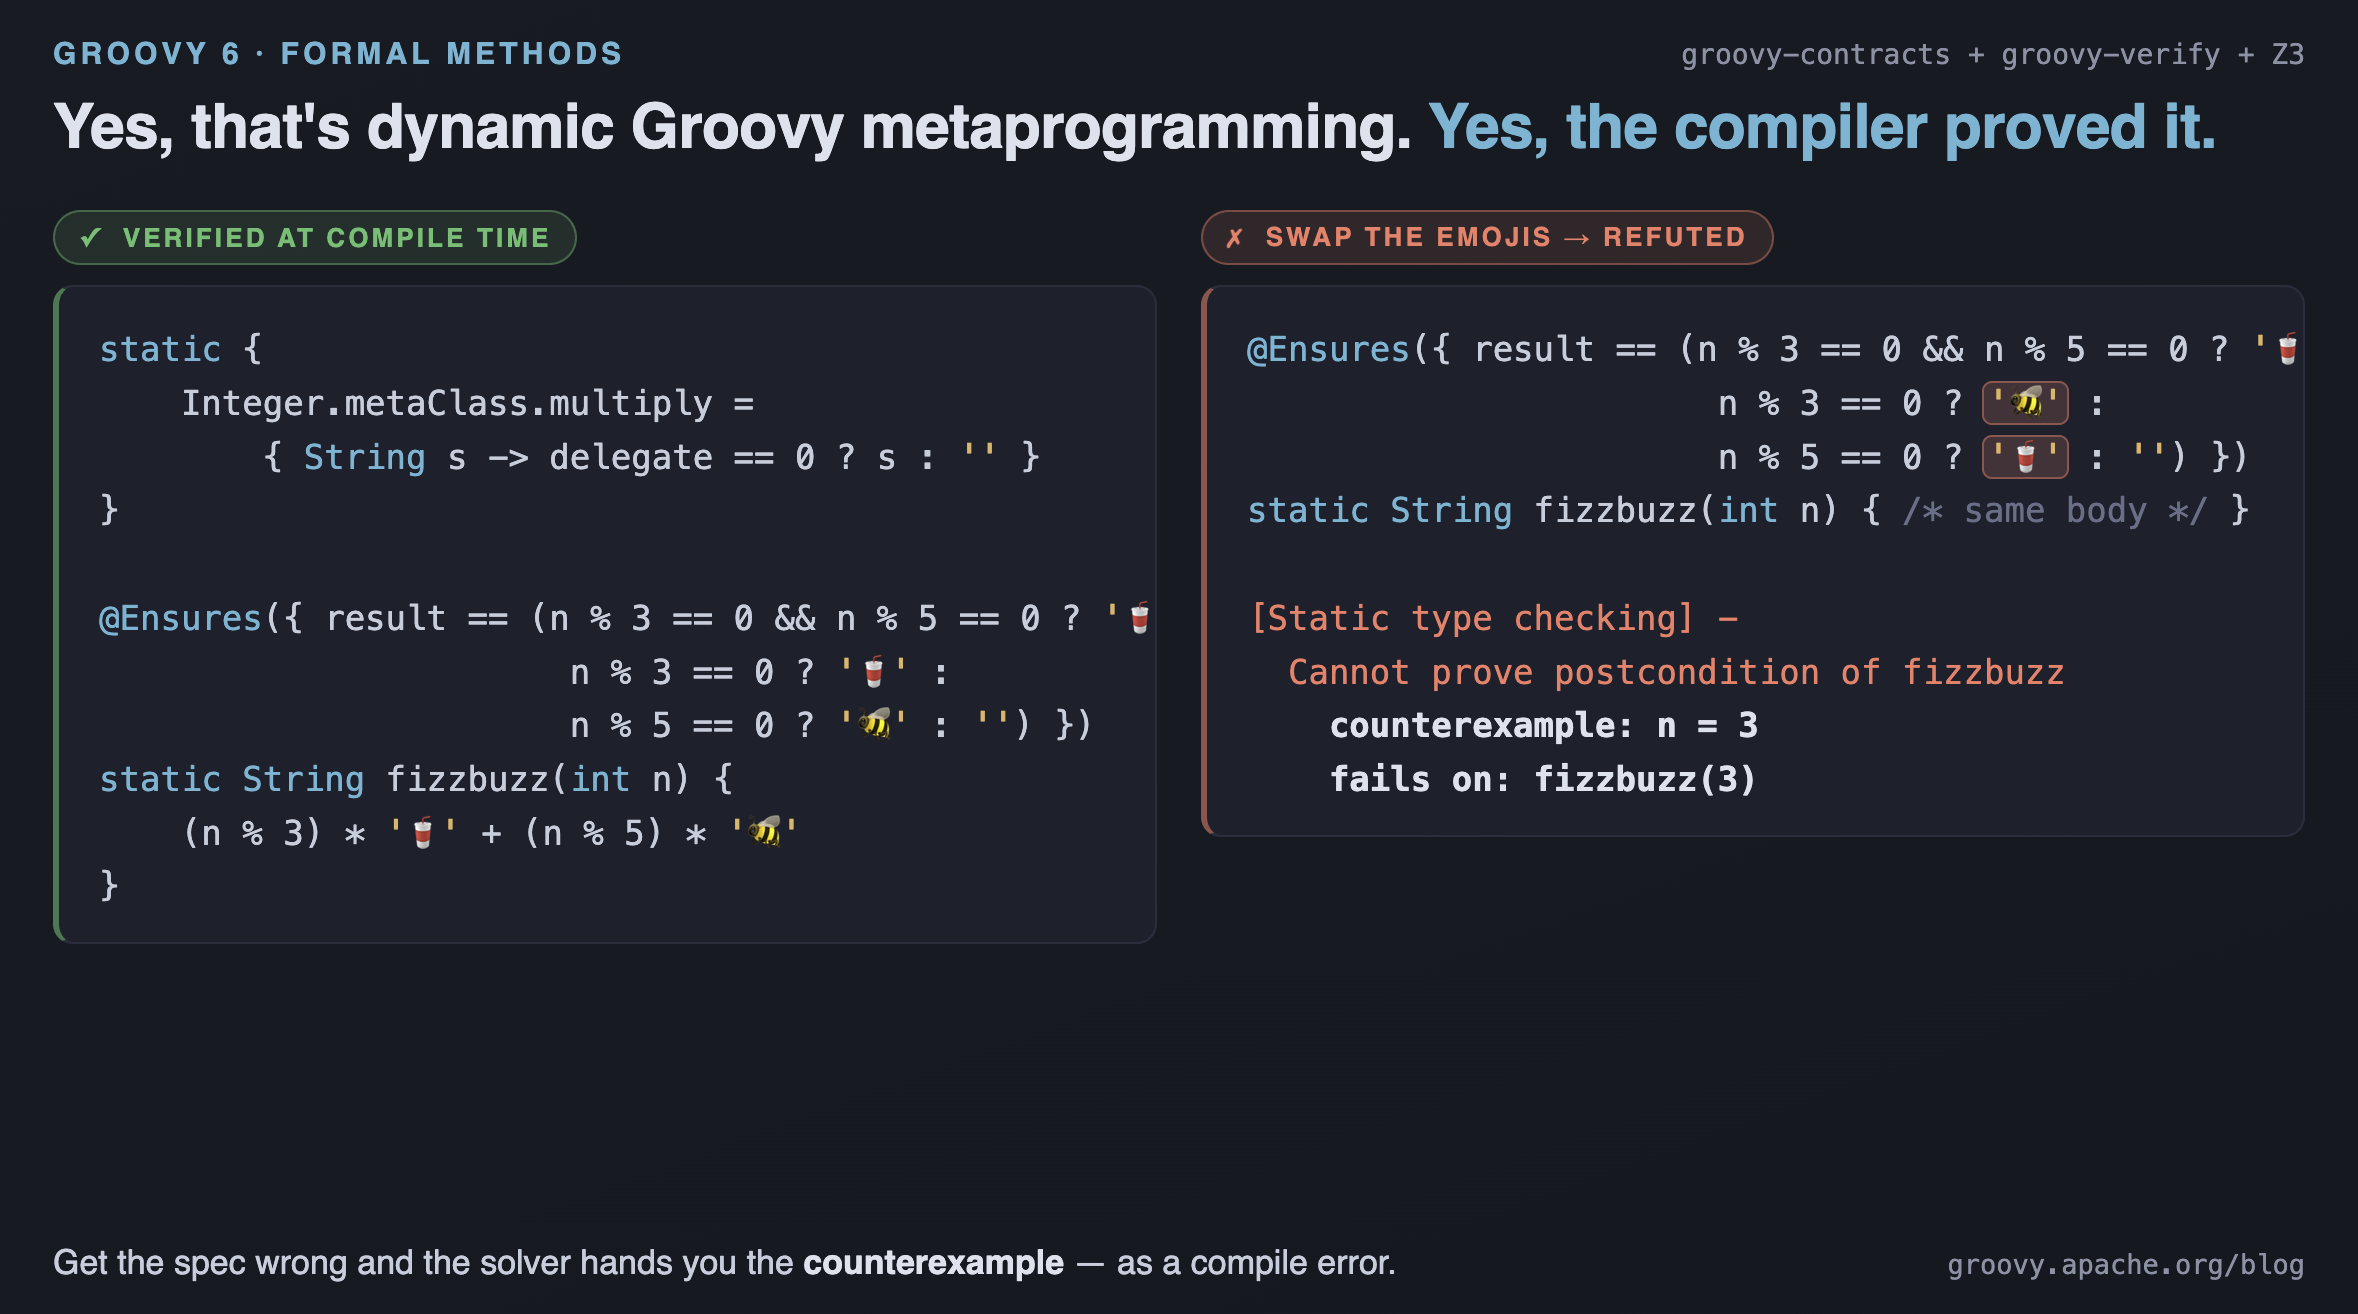
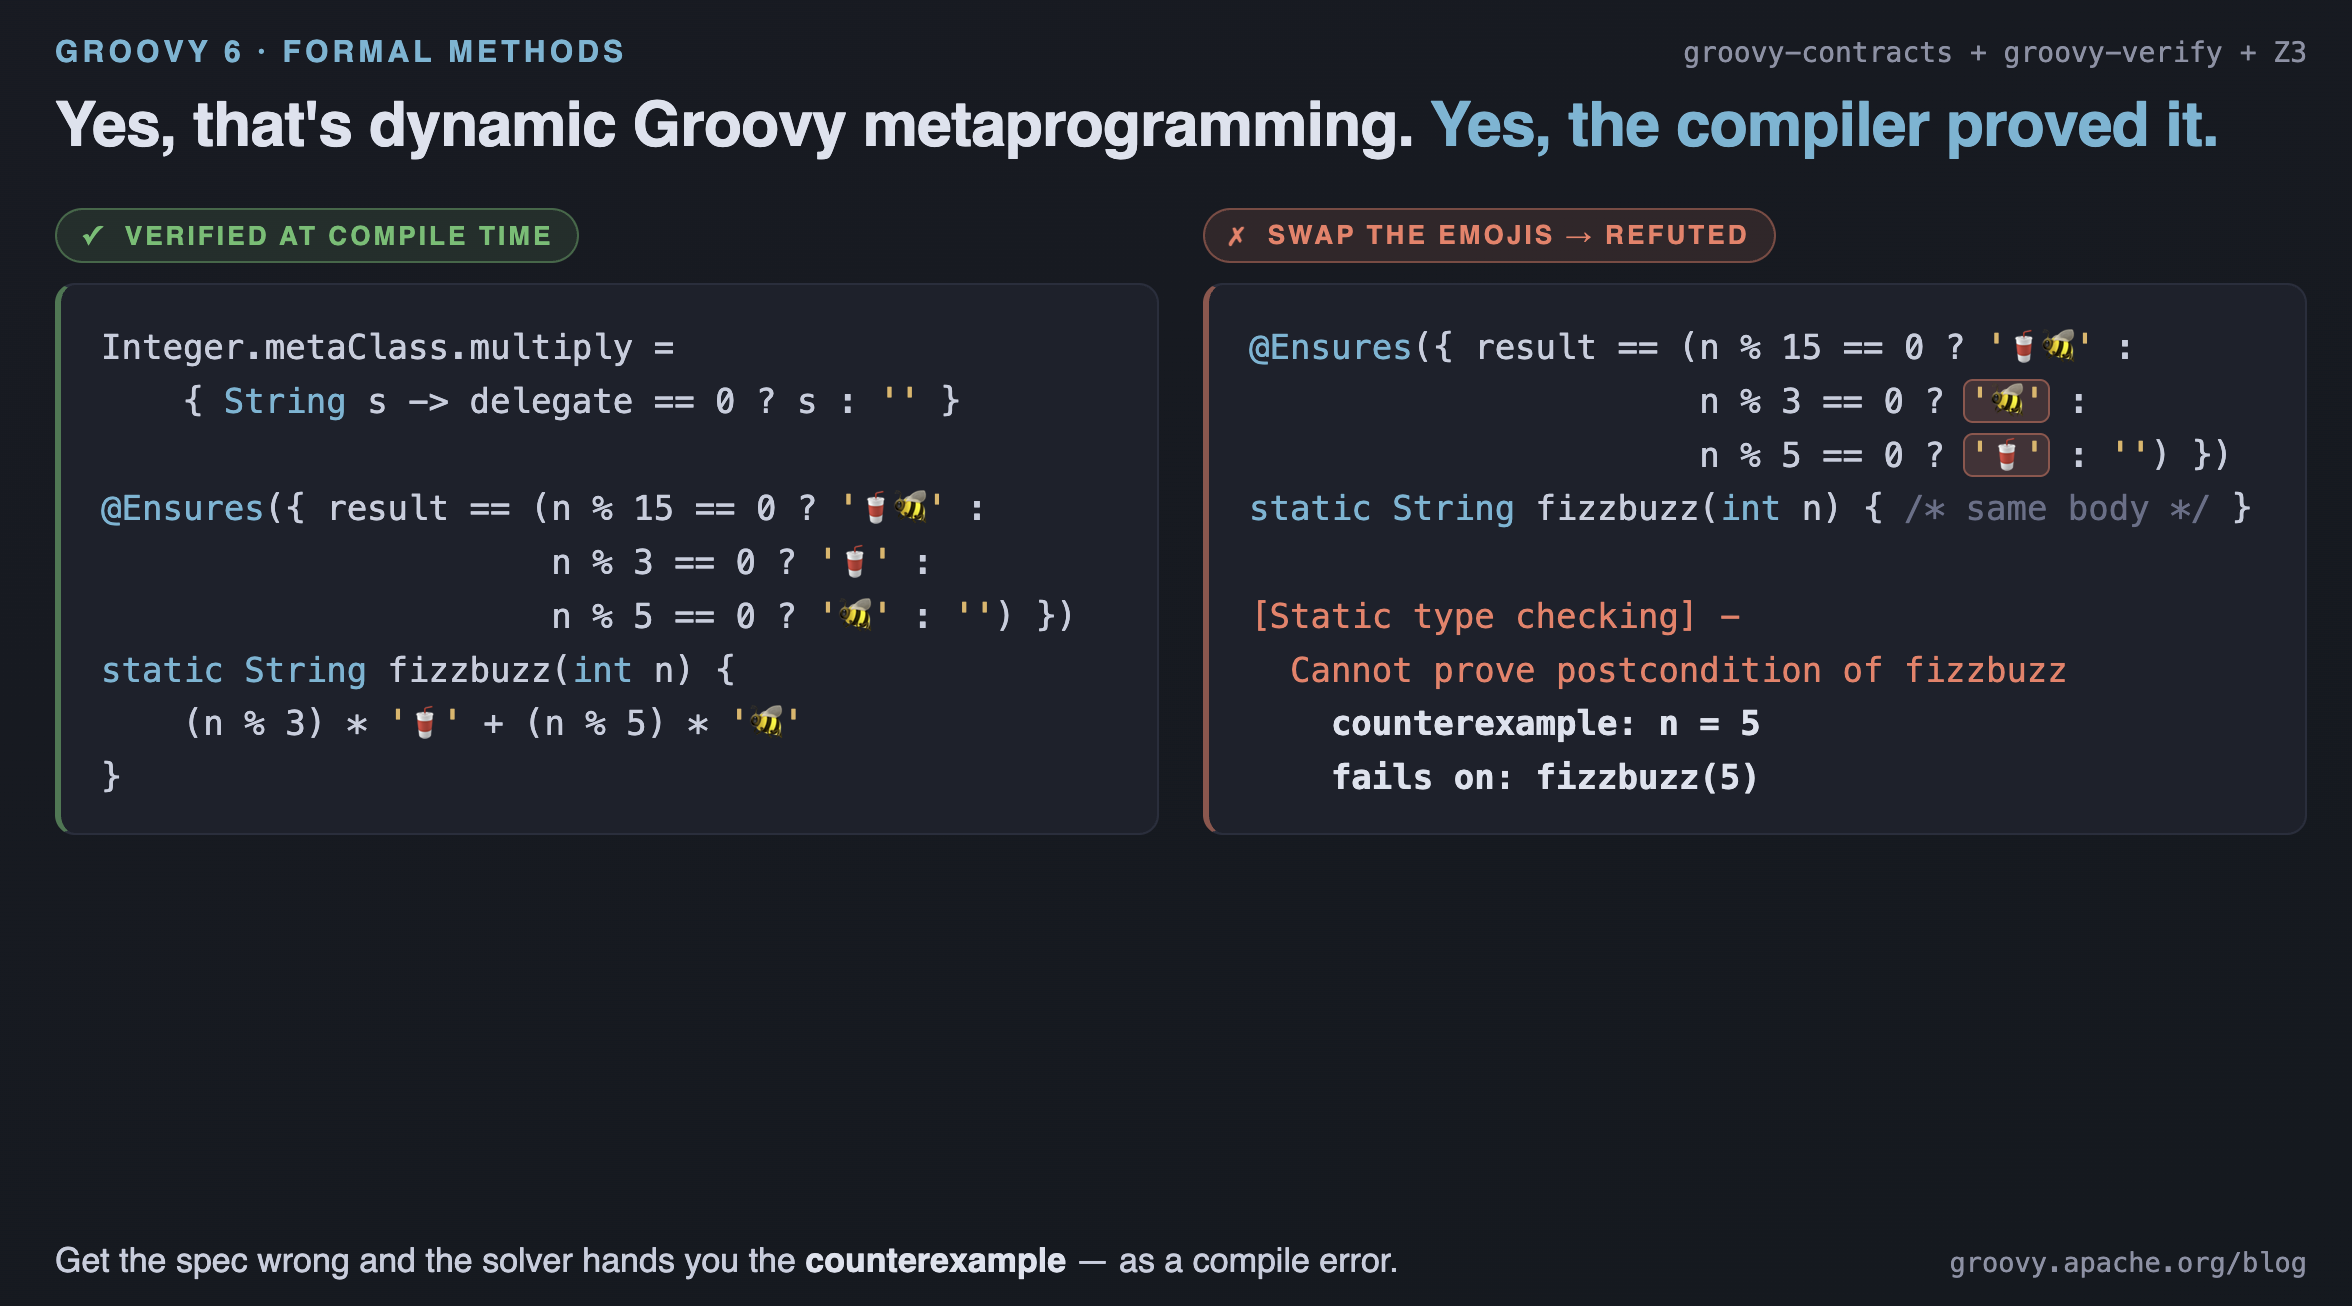
2026/07/04 06:41:45: Generated dev website from groovy-website@aa1af9b

diff --git a/blog/groovy6-formal-methods.html b/blog/groovy6-formal-methods.html
@@ -88,10 +88,17 @@ you drive by hand (Isabelle, Lean).</p>
 </div>
 <div class="paragraph">
 <p>This post is about how much of that world is reachable from ordinary
-Groovy 6 — and it is more than you might expect as this image shows:</p>
+Groovy 6 — and it is more than you might expect. As a taste: that is
+runtime metaclass programming below, <strong>verified against an exact
+specification at compile time</strong> — and when the spec is wrong, the compiler
+answers with the input that breaks it:</p>
 </div>
 <div class="paragraph">
-<p><span class="image"><img src="./img/fizzbuzz_verified.png" alt="can you verify dynamic groovy?"></span></p>
+<p><span class="image"><img src="./img/fizzbuzz_verified.png" alt="metaclass FizzBuzz — verified, and refuted with a counterexample, at compile time" width="800"></span></p>
+</div>
+<div class="paragraph">
+<p>(How a metaclass method can be type-checked at all, let alone proved, is a
+story for <a href="#dynamic-groovy">later in the post</a>.)</p>
 </div>
 <div class="paragraph">
 <p>Two things matter, and
@@ -944,7 +951,7 @@ accepts a larger overdraft verifies as substitutable; a <code>RestrictedAccount<
 that demands a minimum balance is refuted, with the input that breaks
 substitutability.</p>
 </div>
-<div class="paragraph">
+<div id="dynamic-groovy" class="paragraph">
 <p><strong>Even (some) dynamic Groovy.</strong> Everything above lives in Groovy&#8217;s statically
 checkable subset — <code>@TypeChecked</code> is the front door, so runtime
 metaprogramming has been out of scope by construction. But Groovy&#8217;s type
@@ -961,12 +968,16 @@ Groovy and emojis</a> verify against exact specifications this way:</p>
 </div>
 <div class="listingblock">
 <div class="content">
-<pre class="prettyprint highlight"><code data-lang="groovy">static {
-    Integer.metaClass.multiply = { String s -&gt; delegate == 0 ? s : '' }
-}
-@Ensures({ result == (n % 3 == 0 &amp;&amp; n % 5 == 0 ? '🥤🐝' : n % 3 == 0 ? '🥤' : n % 5 == 0 ? '🐝' : '') })
+<pre class="prettyprint highlight"><code data-lang="groovy">Integer.metaClass.multiply = { String s -&gt; delegate == 0 ? s : '' }
+
+@Ensures({ result == (n % 15 == 0 ? '🥤🐝' : n % 3 == 0 ? '🥤' : n % 5 == 0 ? '🐝' : '') })
 static String fizzbuzz(int n) { (n % 3) * '🥤' + (n % 5) * '🐝' }               // VERIFIED</code></pre>
 </div>
+</div>
+<div class="paragraph">
+<p>(That&#8217;s a script: the registration is a plain top-level statement — only the
+method is <code>@TypeChecked</code>, and the pack finds the registration in the script
+body.)</p>
 </div>
 <div class="paragraph">
 <p>The gate is deliberately narrow and evidence-backed: no visible registration,
@@ -1085,7 +1096,14 @@ counterexample as a runnable repro test. The bounds failure above becomes:</p>
 <div class="paragraph">
 <p>The test is green <em>while the bug is live</em> (the call really throws), so it
 confirms the compile-time counterexample is a genuine runtime failure; fix
-the code and flip it into a regression.</p>
+the code and flip it into a regression. On the metaclass FizzBuzz from the
+introduction, the same knob pairs the generated test with the other half of
+the graceful-degradation story — run <em>without</em> the verifier,
+<code>groovy-contracts</code> enforces the same broken spec and power-asserts the
+violation at the solver&#8217;s counterexample:</p>
+</div>
+<div class="paragraph">
+<p><span class="image"><img src="./img/fizzbuzz_junit.png" alt="the counterexample as a runnable JUnit test, plus the runtime power assert" width="800"></span></p>
 </div>
 </li>
 <li>
